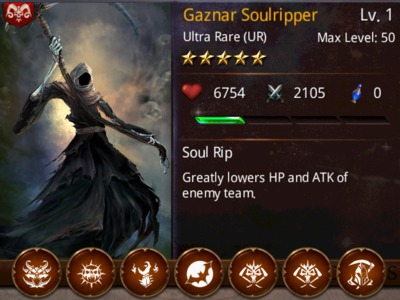
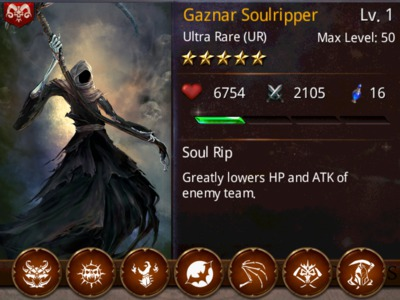
Add a few new demon cards

diff --git a/cards.js b/cards.js
@@ -26,14 +26,14 @@ var cards = [
   new Card("Beastmaster", "Druid", 4, 12, 40, 5200, 1611, ["Wanderers","Druid Warband","Feral Pack",]),
   new Card("Ben-nu Fireborn", "Druid", 5, "", 50, 7409, 2269, ["Undying","Regeneration","Fire Breathing","Mythic Creatures","Immortals","Burning Wrath","Phoenix Fury",]),
   new Card("Ben-nu Frostborn", "Druid", 5, 20, 50, 11223, 2213, ["Phoenix Fury","Frozen Terrors",]),
-  new Card("Ben-nu Hellborn", "Camelot", 6, "", 60, 12875, 3144, ["Phoenix Fury","Aerial Doom",]),
+  new Card("Ben-nu Hellborn", "Camelot", 6, 27, 60, 12875, 3144, ["Phoenix Fury","Aerial Doom","Hell's Terror",]),
   new Card("Ben-nu Skyborn", "Druid", 5, "", 50, 10452, 2765, ["Phoenix Fury","Fury of the Skies",]),
   new Card("Berserker", "Druid", 4, "", 40, 4740, 1776, ["Bruisers","Brute Force","Tribal Fury",]),
-  new Card("Black Knight", "Demon", 4, "", 40, 4320, 1368, ["Twin Knights","Enigmatic Knights","Generals",]),
+  new Card("Black Knight", "Demon", 4, "", 40, 4320, 1368, ["Twin Knights","Enigmatic Knights","Generals","Black Riders",]),
   new Card("Blacksmith", "Camelot", 2, 8, 20, 2765, 670, []),
   new Card("Blademaster", "Camelot", 5, 19, 50, 7885, 2508, ["Augmented Arms","Hot Blooded","Back to Back","Disciplined","Final Stand","Battleborn",]),
   new Card("Blood Briar", "Druid", 3, 8, 30, 3030, 969, ["Thorny Threat",]),
-  new Card("Bourgard", "Demon", 4, "", 40, 4320, 1368, ["King Size Weapons","Hooded Terrors","Body Count",]),
+  new Card("Bourgard", "Demon", 4, "", 40, 4320, 1368, ["King Size Weapons","Hooded Terrors","Body Count","Undead Army",]),
   new Card("Butcher of Princes", "Demon", 5, "", 50, 9999, 2222, ["Body Count",]),
   new Card("Caradd the Gale", "Druid", 5, "", 50, 6456, 1992, ["Nature's Wrath","Elemental Fury","Fury of the Skies","Thunder's Fury",]),
   new Card("Celestial Lion", "Camelot", 3, 10, 30, 4200, 1013, ["Heroic Beasts",]),
@@ -41,7 +41,7 @@ var cards = [
   new Card("Chastity", "Demon", 5, "", 50, 9877, 3024, ["Thirst of Night",]),
   new Card("Cockatrice", "Druid", 4, 10, 40, 4296, 1349, ["Hybrid Beasts","Toxic Death",]),
   new Card("Crossbowman", "Camelot", 1, 6, 10, 1800, 440, ["Marksmen","Soldiers",]),
-  new Card("Death", "Demon", 6, "", 60, 12830, 2780, ["Four Horsemen","Pure Evil","Opposite Ends",]),
+  new Card("Death", "Demon", 6, 29, 60, 12830, 2780, ["Four Horsemen","Pure Evil","Opposite Ends","Black Riders","Hell's Terror","Soul Eaters",]),
   new Card("Deathcap", "Druid", 2, 7, 20, 2210, 685, []),
   new Card("Desdemona", "Demon", 5, "", 50, 7124, 2431, ["Undead Party","Dark Arts","Corrupted",]),
   new Card("Diamond Knight", "Camelot", 5, 17, 50, 8583, 2060, ["Suited Up","Defenders","Fearless Fighters",]),
@@ -50,6 +50,7 @@ var cards = [
   new Card("Diviner", "Camelot", 2, 7, 20, 2400, 585, []),
   new Card("Doomweaver", "Druid", 3, 11, 30, 4254, 1320, ["Giant Insects",]),
   new Card("Dragon Knight", "Camelot", 4, "", 40, 4785, 1548, ["Dragon's Blood",]),
+  new Card("Dream Eater", "Demon", 5, "", 50, 8440, 2612, ["Death Whisper",]),
   new Card("Druantia", "Druid", 6, 20, 60, 11336, 3415, ["Woodland Deities","Nature Magic","Immortals","Wise Sages",]),
   new Card("Druid Initiate", "Druid", 1, 3, 10, 765, 245, ["Noobs",]),
   new Card("Druid Marksman", "Druid", 1, 6, 10, 1680, 518, ["Marksmen","Druid Warriors",]),
@@ -71,8 +72,9 @@ var cards = [
   new Card("Fire Elemental", "Camelot", 4, 11, 40, 5000, 1300, ["Summoned Minions","Elemental Fury","Burning Wrath","Core Dwellers",]),
   new Card("Footman", "Camelot", 1, 4, 10, 1180, 290, ["Soldiers",]),
   new Card("Galzra", "Druid", 6, 20, 60, 10857, 3265, ["Fire Breathing","Elite Force","Epic Serpents","Mythic Creatures","Behemoths","Unstoppable Force",]),
+  new Card("Gargoyle", "Demon", 5, "", 50, 6751, 2314, ["Death Whisper","Undead Army",]),
   new Card("Gawain's Guard", "Camelot", 5, 16, 50, 7852, 2018, ["Royal Bodyguards","Lords and Guards","Disciplined",]),
-  new Card("Gaznar Soulripper", "Demon", 5, "", 50, 6754, 2105, ["2013 All Stars","Relentless Evil","Unholy Strength","Monster Mash","Aerial Doom","Pure Evil","Opposite Ends",]),
+  new Card("Gaznar Soulripper", "Demon", 5, 16, 50, 6754, 2105, ["2013 All Stars","Relentless Evil","Unholy Strength","Monster Mash","Aerial Doom","Pure Evil","Opposite Ends",]),
   new Card("General Morbius", "Camelot", 5, 16, 50, 8265, 2144, ["Fallen Heroes","Generals",]),
   new Card("Giant Boar", "Druid", 3, 8, 30, 3016, 966, ["Thick Hides","Wild Pack","Feral Pack",]),
   new Card("Giant Eagle", "Camelot", 3, 7, 30, 2860, 707, ["Heroic Beasts",]),
@@ -123,6 +125,7 @@ var cards = [
   new Card("Mystic Raven", "Druid", 2, 5, 20, 1565, 495, []),
   new Card("Nathra Verdaine", "Druid", 5, 18, 50, 8367, 2547, ["Ancient Protectors","Forest Guardians","Epic Serpents","Dragon's Blood",]),
   new Card("Necros the Grim", "Demon", 4, 12, 40, 4734, 1491, ["Cultists","Necromancers","Dark Arts","Warrior Poets","Necro Party",]),
+  new Card("Night Rider", "Demon", 5, "", 50, 8888, 2222, ["Black Riders","Hell's Terror",]),
   new Card("Odo the Infernal", "Demon", 4, "", 40, 5734, 1491, ["Necro Party",]),
   new Card("Ossion the Dread", "Demon", 6, "", 60, 12930, 3080, ["Relentless Evil","Hooded Terrors","Necromancers","Immortals","Dark Arts","Pure Evil","League of the Damned",]),
   new Card("Paladin", "Camelot", 4, 12, 40, 5650, 1376, ["Twin Knights","Suited Up","Holy Men","Healers","Knight Warband","Assault Team",]),
@@ -145,6 +148,7 @@ var cards = [
   new Card("Sir Kay", "Camelot", 5, 15, 50, 7552, 1818, ["Suited Up","Hot Blooded","Fearless Fighters",]),
   new Card("Sir Valamir", "Demon", 5, "", 50, 9877, 3024, ["Corrupted","Pure Evil","Thirst of Night",]),
   new Card("Skinchanger", "Druid", 2, 7, 20, 2225, 680, ["Defenders",]),
+  new Card("Soul Cage", "Demon", 6, 25, 60, 11830, 2810, ["Death Whisper","Soul Eaters",]),
   new Card("Soulbane", "Demon", 4, "", 40, 4732, 1991, ["Necro Party",]),
   new Card("Spy", "Camelot", 1, 3, 10, 830, 205, []),
   new Card("Squire", "Camelot", 1, 3, 10, 850, 200, ["Questing Knight","Noobs",]),
@@ -156,9 +160,11 @@ var cards = [
   new Card("Taal", "Camelot", 3, 9, 30, "", "", []),
   new Card("Telekinetic", "Camelot", 4, "", 40, 5013, 1512, ["Strength of Will",]),
   new Card("Terraheart", "Demon", 5, 24, 50, 9141, 1865, ["Earthen Might","Core Dwellers","Geomancers","Desert Guardians",]),
+  new Card("The Butcher", "Demon", 4, "", 40, 6012, 1502, ["Undead Army",]),
   new Card("The Horned Lord", "Druid", 5, 13, 50, 5980, 1852, ["Gods","Forest Guardians","Shamans","Theurgists","Stag Pack",]),
   new Card("The Prophet", "Camelot", 5, 15, 50, 6600, 1550, ["Mystics","Cunning Foes","Wise Sages","Premeditation",]),
   new Card("Thorn Witch", "Druid", 3, 10, 30, 3855, 1200, ["Regeneration","Thorny Threat",]),
+  new Card("Tomb Reaver", "Demon", 5, 20, 50, 9051, 1895, ["Death Whisper","Undead Army",]),
   new Card("Totem Guard", "Druid", 6, 22, 60, 10857, 3265, ["Druid Elite","Brute Force","King Size Weapons","Enchanted Weapons","Final Stand","Champions",]),
   new Card("Toymaker", "Camelot", 4, "", 40, 4320, 1368, ["Polar",]),
   new Card("Trahern", "Demon", 4, "", 40, 6124, 1973, ["Monster Mash",]),

diff --git a/combos.js b/combos.js
@@ -9,6 +9,7 @@ var combos = [
   new Combo("Battleborn", "Passive - Raise team's ATK by 75%, Skill proc +15%", ["Veteran Paladin","Weapon Master","Blademaster","War Drummer",]),
   new Combo("Behemoths", "Passive - Raise team's MAX HP by 150%", ["Ancient Archelon","Mammoth Beetle","Galzra",]),
   new Combo("Beyond Redemption", "Remove 50% of enemy team's current HP", ["Famine","Jezebel the Shriek","Morbius the Cursed","Father Maleficent",]),
+  new Combo("Black Riders", "Remove 90% of enemy team's current HP", ["Night Rider","Black Knight","Death",]),
   new Combo("Blessed Knight Rider", "Passive - Reduce damage by 20%", ["Grail Knight","Armored Warhorse","Guardian Angel",]),
   new Combo("Blessed Stag Rider", "Passive - Reduce damage by 20%", ["Primal Warrior","Alpha Stag","Guardian Angel",]),
   new Combo("Blessings of Fate", "Passive - Increase healing effectiveness by 200%, Increase Skill Proc by 5%", ["Angel of Law","Hope","Azarel","Lady of the Lake",]),
@@ -27,6 +28,7 @@ var combos = [
   new Combo("Cultists", "Chance to revive team with 50% HP upon death", ["Father Maleficent","Necros the Grim",]),
   new Combo("Cunning Foes", "Passive - Increase Skill Proc of team members by 15%", ["Green Knight","Treehound","Arial","The Prophet",]),
   new Combo("Dark Arts", "Remove 66% of enemy team's current HP", ["Desdemona","Jezebel the Shriek","Ossion the Dread","Necros the Grim",]),
+  new Combo("Death Whisper", "Increase ATK by 300% when HP falls below 10%", ["Soul Cage","Tomb Reaver","Gargoyle","Dream Eater",]),
   new Combo("Defenders", "Passive - Reduce damage by 50%", ["Diamond Knight","Stone Ancient","Skinchanger","Marble Guardian",]),
   new Combo("Demons", "Passive - Raise team's MAX HP by 80%", ["Fenric Gore-Claw","Balzathor",]),
   new Combo("Desert Guardians", "Passive - Raise team's HP by 50%, Increase Skill Proc by 8%", ["Ageless Scorpion","Terraheart","Mara of the Sand",]),
@@ -67,6 +69,7 @@ var combos = [
   new Combo("Guardian Constructs", "Passive - Reduce damage by 10%", ["Marble Guardian","Mechanical Knight",]),
   new Combo("Healers", "Passive - Increases healing effectiveness by 80%", ["Rihannon the Fair","Ranger","Paladin",]),
   new Combo("Heavy Cavalry", "Remove 80% of enemy team's current HP", ["Maiden Exemplar","Primal Rider","King's Guard","Arial",]),
+  new Combo("Hell's Terror", "Passive - Raise team's HP by 100%, Reduce damage by 20%", ["Death","Night Rider","Ben-nu Hellborn",]),
   new Combo("Hero Trifecta", "Chance to revive team with 20% HP upon death", ["Grail Knight","Archmage","Bard",]),
   new Combo("Heroic Beasts", "Passive - Raise team's MAX HP by 50%", ["Celestial Lion","Giant Eagle",]),
   new Combo("Hired Steel", "Passive - Raise team's ATK by 50%", ["Weapon Master","Huscarl","Highlander","Ulster Knight",]),
@@ -117,6 +120,7 @@ var combos = [
   new Combo("Shamans", "Passive - Increases healing effectiveness by 100%", ["The Horned Lord","Elder Shaman",]),
   new Combo("Shining Armor", "Passive - Reduce damage by 60%", ["Green Knight","King's Guard","Maiden Exemplar","White Knight",]),
   new Combo("Soldiers", "Passive - Raise team's MAX HP by 20%", ["Knight","Footman","Pikeman","Crossbowman",]),
+  new Combo("Soul Eaters", "Chance to revive team with 50% HP upon death", ["Death","Soul Cage",]),
   new Combo("Stag Herder", "Passive - Increase healing effectiveness by 50%", ["Alpha Stag","Wild Hunt",]),
   new Combo("Stag Pack", "Passive - Raise team's HP by 150%", ["Cernunnos","The Horned Lord","Alpha Stag","Wild Hunt",]),
   new Combo("Strength of Will", "Remove 50% of enemy team's current HP", ["Sword Summoner","Kel Earthbringer","Telekinetic",]),
@@ -137,6 +141,7 @@ var combos = [
   new Combo("Twin Sisters", "Increase ATK by 200% when HP falls below 10%", ["Arabel the True","Yzabel the Fallen",]),
   new Combo("Ultimate Fighters", "Passive - Raise team's ATK by 100%, Raise team's HP by 75%", ["War","King's Guard","Drust Mac Erp",]),
   new Combo("Umbral Spirits", "Chance to revive team with 30% HP upon death", ["Merla the Lidless","Amythestine","Aleria","Cernunnos",]),
+  new Combo("Undead Army", "Passive - Raise team's HP by 125%", ["The Butcher","Bourgard","Gargoyle","Tomb Reaver",]),
   new Combo("Undead Party", "Passive - Raise team's HP and ATK by 50%", ["Desdemona","Morbius the Cursed","Karn","Gravebane",]),
   new Combo("Undying", "Chance to revive team with 60% HP upon death", ["Azarel","Ben-nu Fireborn",]),
   new Combo("Unholy Strength", "Passive - Raise team's ATK by 80%", ["Morbius the Cursed","Gaznar Soulripper",]),
